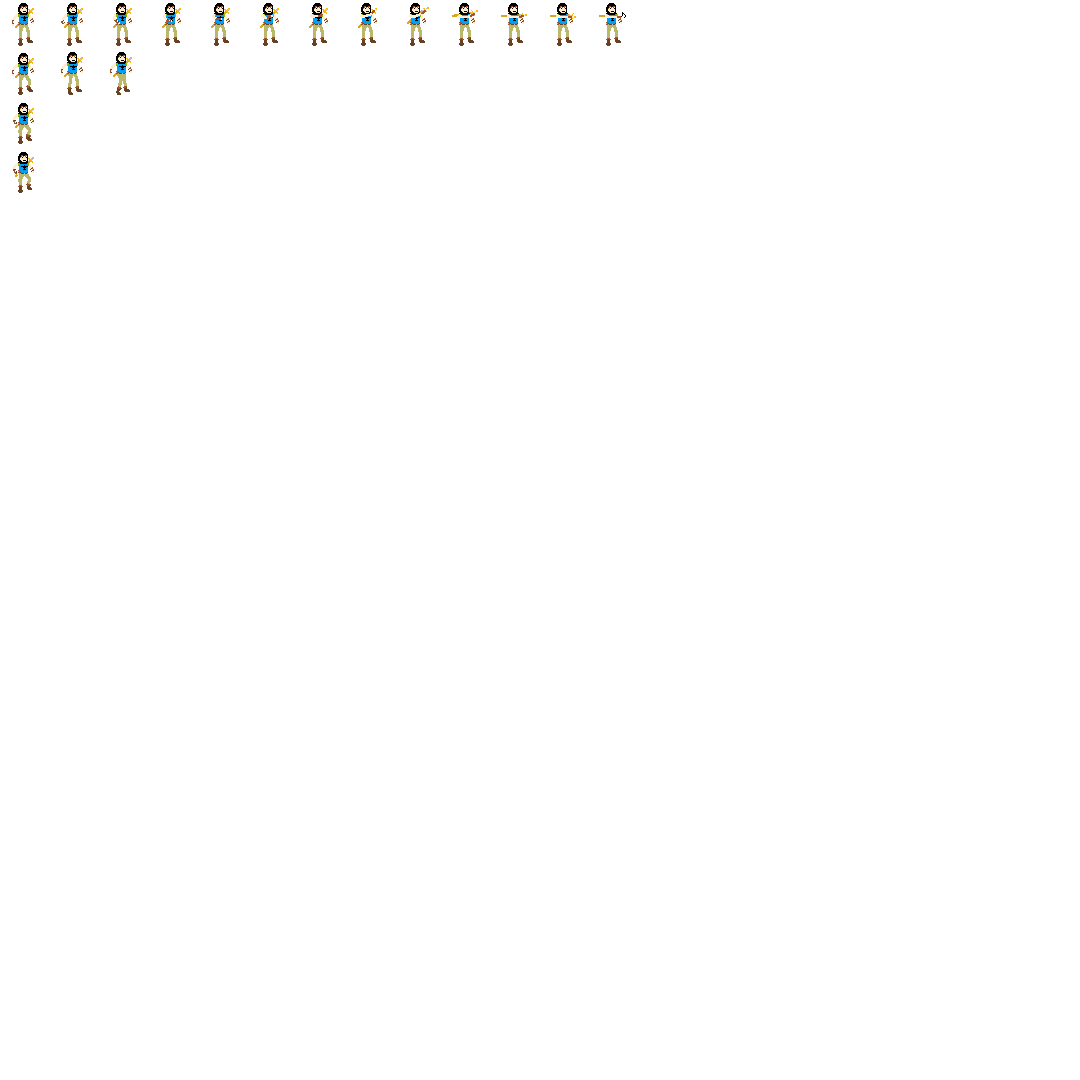
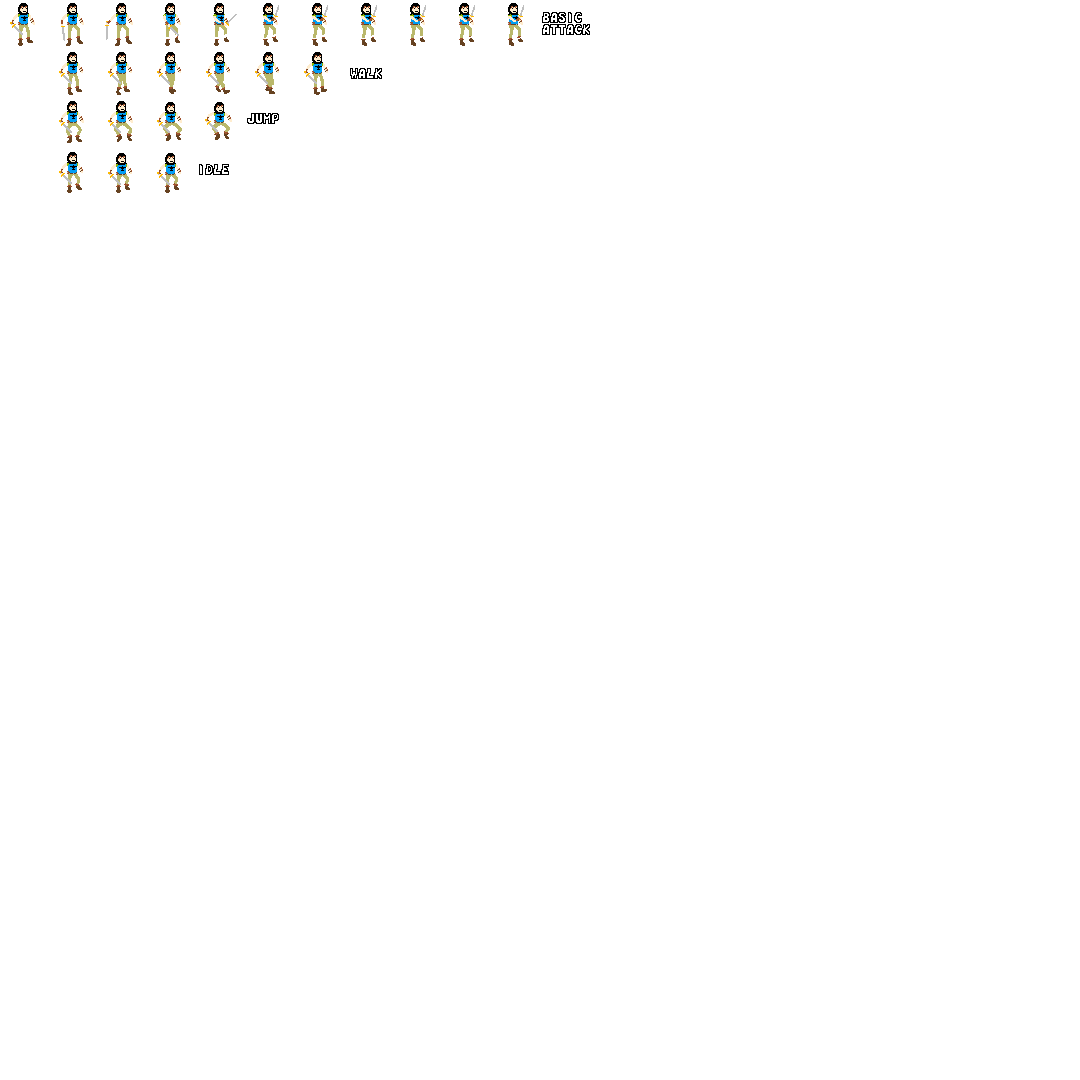
Remapped animations
Changed sprite display options to match updated sprite sheet.

diff --git a/settings.py b/settings.py
@@ -12,17 +12,17 @@ class Settings:
         self.player_w_speed = 7  # Must be a digit
         self.player_sprite = {
             'location': "images/MainCharacter.png",
-            'size': (22, 43),
+            'size': (48, 48),
             'start_pos': (self.screen_width / 2, self.screen_height - 50),
             'idle_frames': 4,
-            'idle_y_starts': (3, 53, 103, 152),
-            'idle_x_starts': (12, 12, 13, 13),
-            'walk_frames': 3,
-            'walk_x_starts': (12, 61, 110),
-            'walk_y_starts': (53, 53, 53),
-            'attack_frames': 13,
-            'attack_y_starts': (3, 3, 3, 3, 3, 3, 3, 3, 3, 3, 3, 3, 3),
-            'attack_x_starts': (12, 61, 113, 162, 211, 260, 309, 358, 407, 452, 501, 550, 599)
+            'idle_y_starts': (0, 146, 146, 146),
+            'idle_x_starts': (0, 49, 98, 147),
+            'walk_frames': 6,
+            'walk_x_starts': (49, 98, 147, 196, 245, 294),
+            'walk_y_starts': (49, 49, 49, 49, 49, 49),
+            'attack_frames': 10,
+            'attack_y_starts': (0, 0, 0, 0, 0, 0, 0, 0, 0, 0),
+            'attack_x_starts': (49, 98, 147, 196, 245, 294, 343, 392, 441, 490)
         }
 
         self.skeleton_sprite = {

diff --git a/objects.py b/objects.py
@@ -20,7 +20,7 @@ class Object:
 
     def image_at(self, rectangle):
         rect = pygame.Rect(rectangle)
-        image = pygame.Surface(rect.size)
+        image = pygame.Surface(rect.size, pygame.SRCALPHA)
         image.blit(self.sprite_sheet, (0, 0), rect)
         return image
 
